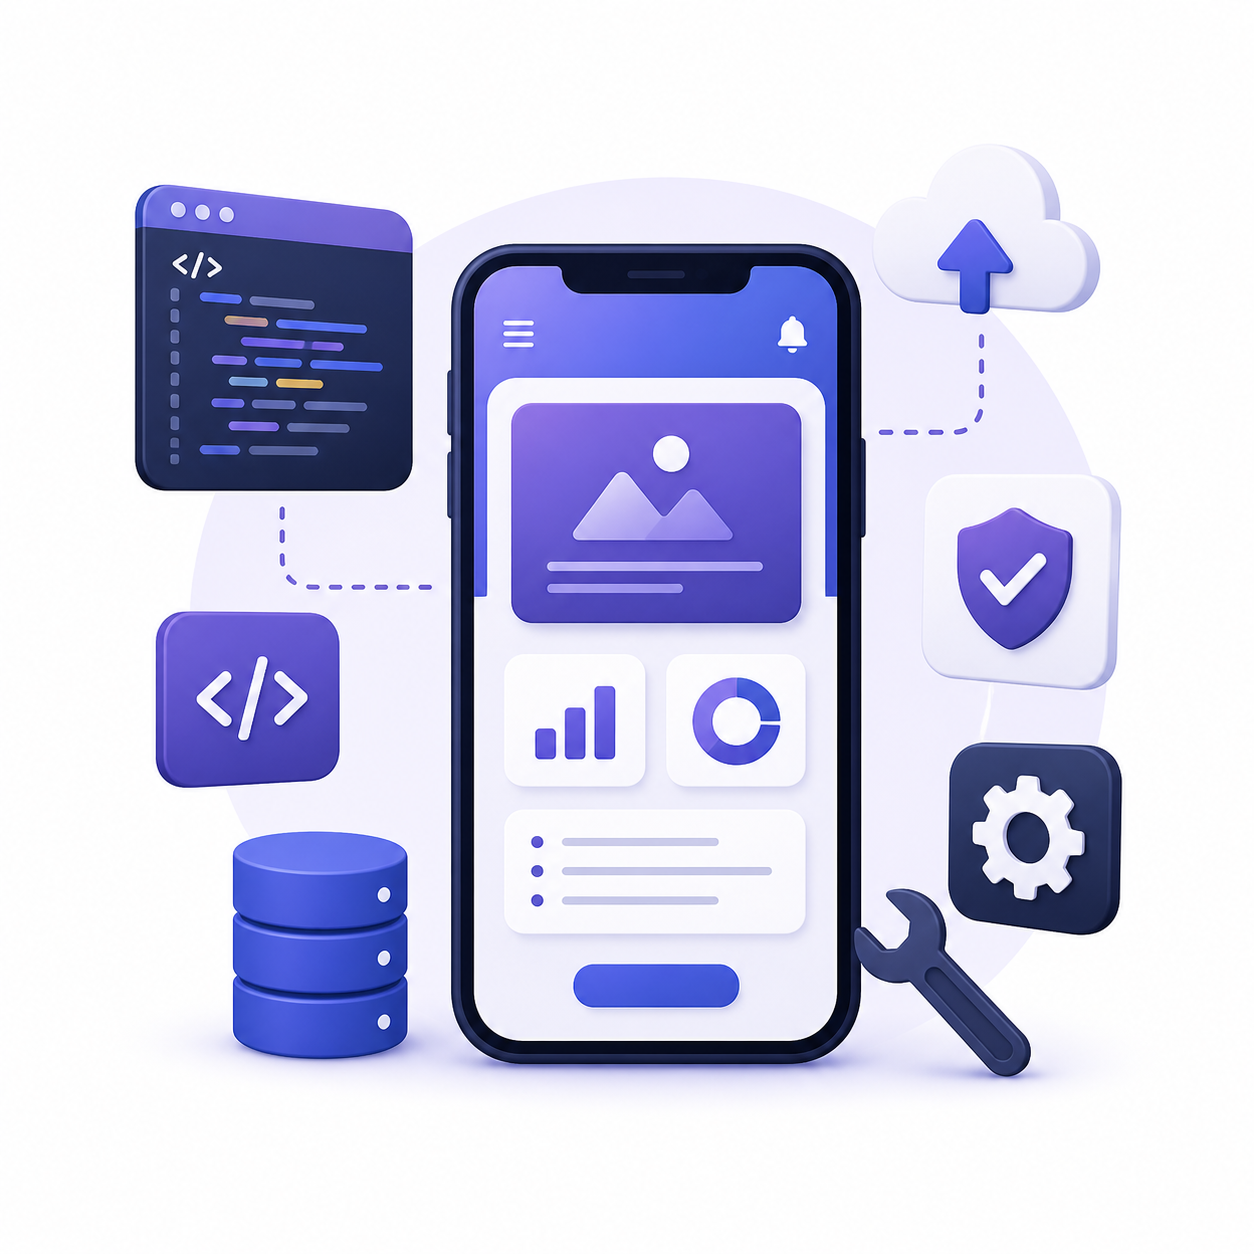
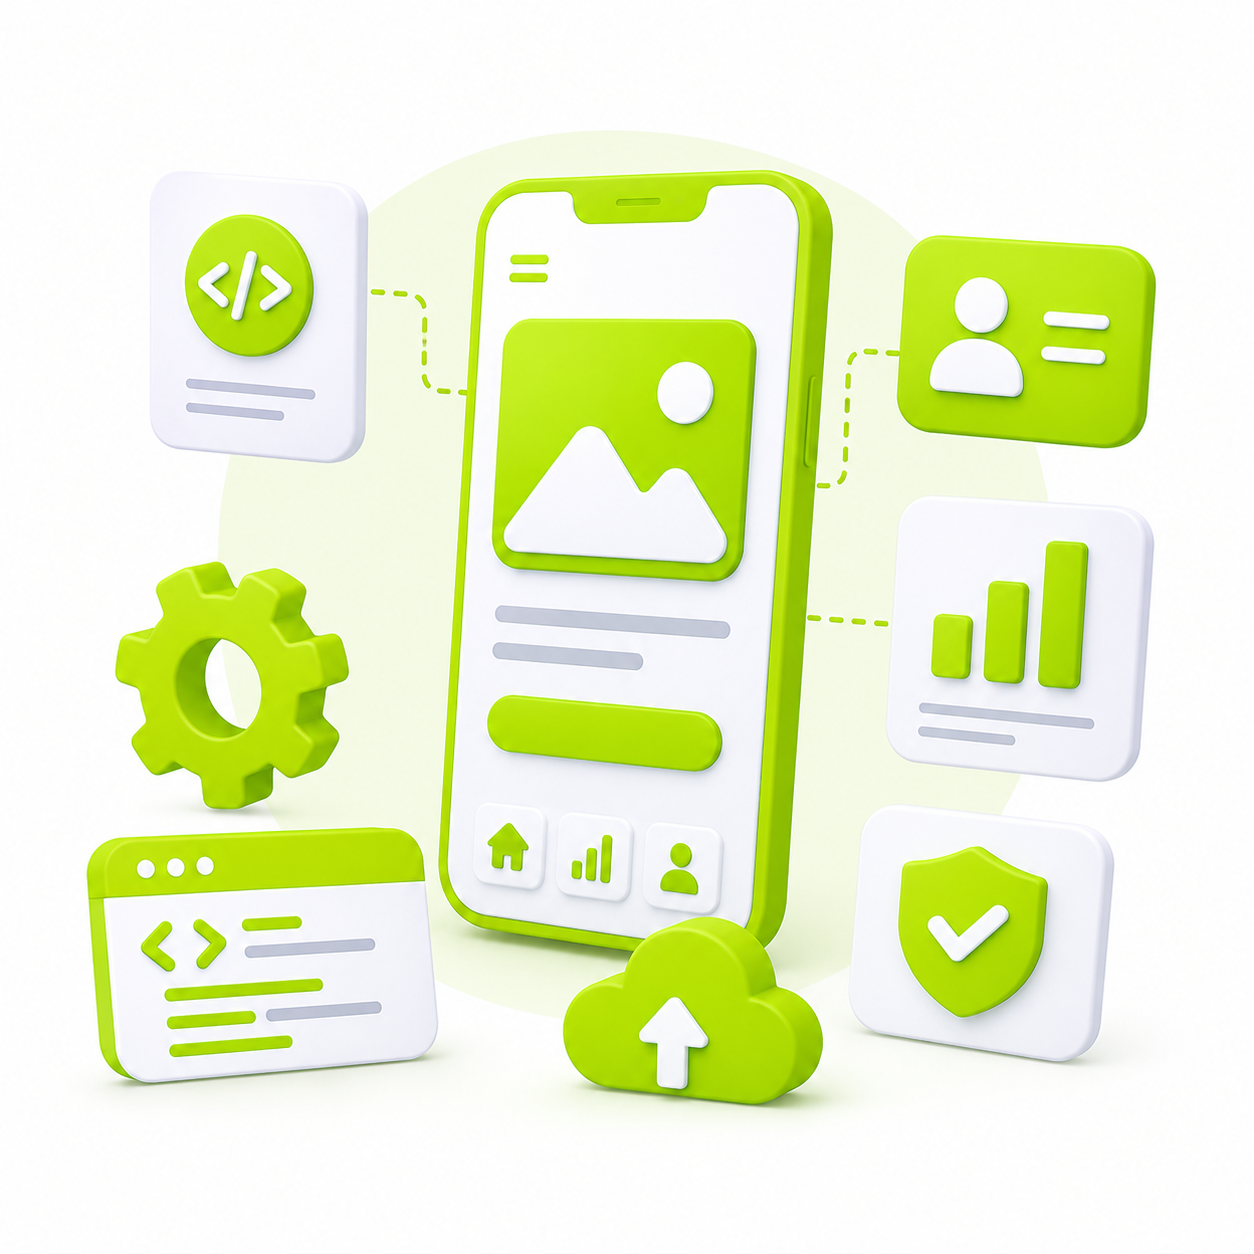
feat: Implementa a dinamica de navegção que integra os cards da landing 2 com os cards da pagina de serviços

diff --git a/src/components/ComponentesServicos/useNavegacao.js b/src/components/ComponentesServicos/useNavegacao.js
@@ -1,0 +1,17 @@
+// hooks/useNavegacao.js
+export const useNavegacao = (setSecaoAtiva) => {
+  const navegarParaServico = (idAlvo) => {
+    // 1. Troca a aba
+    setSecaoAtiva("servicos");
+
+    // 2. Aguarda a renderização e faz o scroll
+    setTimeout(() => {
+      const elemento = document.getElementById(idAlvo);
+      if (elemento) {
+        elemento.scrollIntoView({ behavior: "smooth" });
+      }
+    }, 100);
+  };
+
+  return { navegarParaServico };
+};

diff --git a/src/components/ComponentesServicos/ServicosCard.jsx b/src/components/ComponentesServicos/ServicosCard.jsx
@@ -1,11 +1,7 @@
-// Adicionei a prop "reverse" aqui
-const ServicosCard = ({ title, description, topics, imageUrl, imageAlt, reverse }) => {
+export const ServicosCard = ({ id, title, description, topics, imageUrl, imageAlt}) => {
   return (
-    <div className={`
-      bg-white rounded-2xl shadow-md p-8 hover:shadow-lg transition 
-      flex flex-col lg:flex-row gap-10 items-center
-      ${reverse ? 'lg:flex-row-reverse' : ''} // Isso faz a mágica da inversão
-    `}>
+    <div id={id} className=
+      "bg-white rounded-2xl shadow-md p-8 hover:shadow-lg transition flex flex-col lg:flex-row gap-10 items-center scroll-mt-28">
       
       {/* Coluna do Conteúdo */}
       <div className="flex-1">
@@ -51,5 +47,3 @@ const ServicosCard = ({ title, description, topics, imageUrl, imageAlt, reverse 
     </div>
   );
 };
-
-export default ServicosCard;

diff --git a/src/App.jsx b/src/App.jsx
@@ -1,5 +1,6 @@
 import React from "react";
 import { useState } from "react";
+import { useNavegacao } from "./components/ComponentesServicos/useNavegacao.js";
 import Header from "./components/Header.jsx";
 import Hero from "./sections/Landing2/Hero.jsx"
 import Historia from "./sections/Landing2/Historia.jsx";
@@ -16,10 +17,13 @@ import Bg1 from "./components/Backgrounds/Bg1.jsx";
 import Bg2 from "./components/Backgrounds/Bg2.jsx";
 import CardServicos from './sections/Servicos/ServicePages.jsx'
 
+
 function App() {
   // página inicial padrão
   const [secaoAtiva, setSecaoAtiva] = useState("home");
   
+  const { navegarParaServico } = useNavegacao(setSecaoAtiva);
+
   return (
     <div className="min-h-screen flex flex-col bg-gray-50">
       
@@ -34,14 +38,14 @@ function App() {
           <Hero />
           <Historia />
           <QuemSomos />
-          <Section3 />
+          <Section3 navegarParaServico={navegarParaServico} />
           <Orcamento />
           </>
         )}
 
         {secaoAtiva === "projetos" && (
           <Bg1>
-            <Section1 /> {/* section1 da landing projetos */}
+            <Section1 /> 
             <Section2 />
             <CTASection />
           </Bg1>
@@ -51,7 +55,6 @@ function App() {
           <Hero />
           <Historia />
           <CardServicos/>
-          <Section3 />
           <Orcamento />
           </>
         )}

diff --git a/src/sections/Landing2/Section3/Section3.jsx b/src/sections/Landing2/Section3/Section3.jsx
@@ -3,7 +3,7 @@ import monitorIcon from '../../../assets/section3-icons/monitor-icon.svg';
 import codeIcon from '../../../assets/section3-icons/code-icon.svg';
 import smartphoneIcon from '../../../assets/section3-icons/smartphone-icon.svg';
 
-function Section3() {
+function Section3({ navegarParaServico }) {
   return (
     <section className="py-16 bg-[#FFFFFF]">
 
@@ -37,6 +37,7 @@ function Section3() {
             titulo="Plataformas Web" 
             descricao="Sites institucionais, e-commerces e sistemas web robustos. Levamos seu negócio para a internet com tecnologia de ponta." 
             corFundoIcone="bg-[#6B0F9C1A]"
+            aoClicar={() => navegarParaServico("plataformasWeb")}
           />
 
           {/* --- CARD 2: APLICATIVOS MOBILE --- */}
@@ -44,7 +45,8 @@ function Section3() {
             icone={smartphoneIcon} 
             titulo="Aplicativos Mobile" 
             descricao="Esteja sempre perto de seus clientes. Desenvolvimento de aplicativos nativos e híbridos para iOS e Android." 
-            corFundoIcone="bg-[#6B0F9C1A]"
+            corFundoIcone="bg-[#A4DE021A]"
+            aoClicar={() => navegarParaServico("aplicativosMobile")}
           />
 
 
@@ -53,6 +55,8 @@ function Section3() {
             icone={codeIcon} 
             titulo="Soluções Personalizadas" 
             descricao="Tem uma ideia inovadora? Transformamos sua visão em software funcional com consultoria especializada."
+            corFundoIcone="bg-[#A855F71A]"
+            aoClicar={() => navegarParaServico("solucoesPersonalizadas")}
           />
         </div>
       </div>

diff --git a/src/components/Section3-components/card.jsx b/src/components/Section3-components/card.jsx
@@ -1,7 +1,8 @@
 import React from 'react';
 import './card.css';
 
-export function Card({ icone, titulo, descricao, corFundoIcone }) {
+// Adicionamos a prop 'linkDestino'
+export function Card({ icone, titulo, descricao, corFundoIcone, aoClicar}) {
   return (
     <div className="estilo-cards">
       
@@ -15,10 +16,10 @@ export function Card({ icone, titulo, descricao, corFundoIcone }) {
         {descricao}
       </p>
 
-      <a href="#contato" className="link-saiba-mais">
+      <button onClick={aoClicar} className="link-saiba-mais">
         <span className="linha-animada">Saiba mais</span>
         <span className="seta">→</span>
-      </a>
+      </button>
     </div>
   );
 }

diff --git a/src/sections/Servicos/ServicePages.jsx b/src/sections/Servicos/ServicePages.jsx
@@ -1,4 +1,4 @@
-import ServicosCard from '../../components/ComponentesServicos/ServicosCard';
+import { ServicosCard } from '../../components/ComponentesServicos/ServicosCard';
 import WebImagem from '../../assets/LandingServiços/plataformaWeb.png'
 import MobileImagem from '../../assets/LandingServiços/aplicativoMobile.png'
 import personalizadaImagem from '../../assets/LandingServiços/solucoesPersonalizadas.png'
@@ -9,6 +9,7 @@ const PaginaServicos = () => {
   const servicos = [
     {
       title: "Plataformas Web",
+      id: "plataformasWeb",
       description: "Criamos sites e sistemas web rápidos, modernos e preparados para gerar resultados reais.",
       imageUrl: WebImagem,
       
@@ -52,6 +53,7 @@ const PaginaServicos = () => {
 
     {
       title: "Aplicativos Mobile",
+      id: "aplicativosMobile",
       imageUrl: MobileImagem,
       description: "Desenvolvemos aplicativos modernos para Android e iOS com foco em performance e experiência do usuário.",
 
@@ -94,6 +96,7 @@ const PaginaServicos = () => {
 
     {
       title: "Soluções Personalizadas",
+      id: "solucoesPersonalizadas",
       imageUrl: personalizadaImagem,
       description: "Criamos sistemas sob medida para resolver problemas específicos e otimizar processos do seu negócio.",
 
@@ -146,6 +149,7 @@ const PaginaServicos = () => {
         {servicos.map((service, index) => (
           <ServicosCard
             key={index}
+            id={service.id}
             title={service.title}
             description={service.description}
             topics={service.topics}